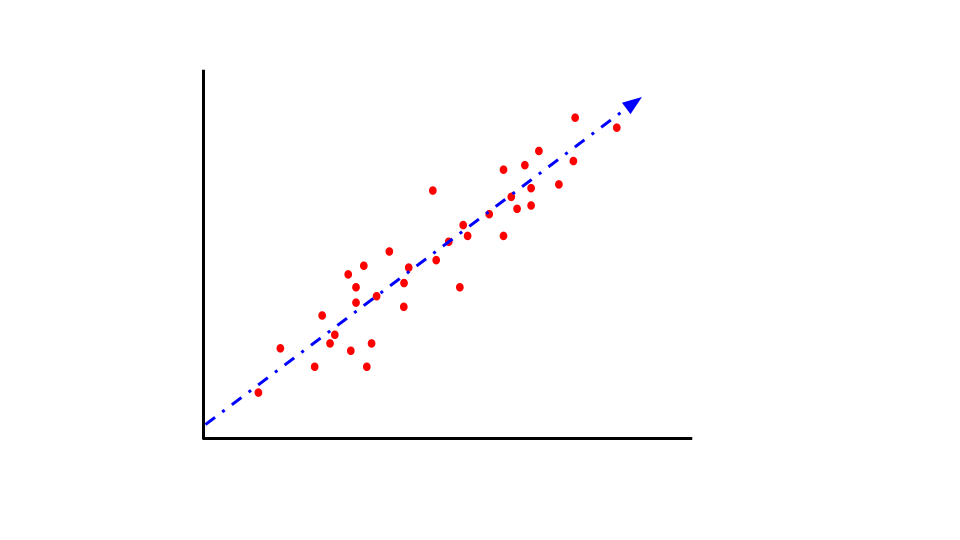
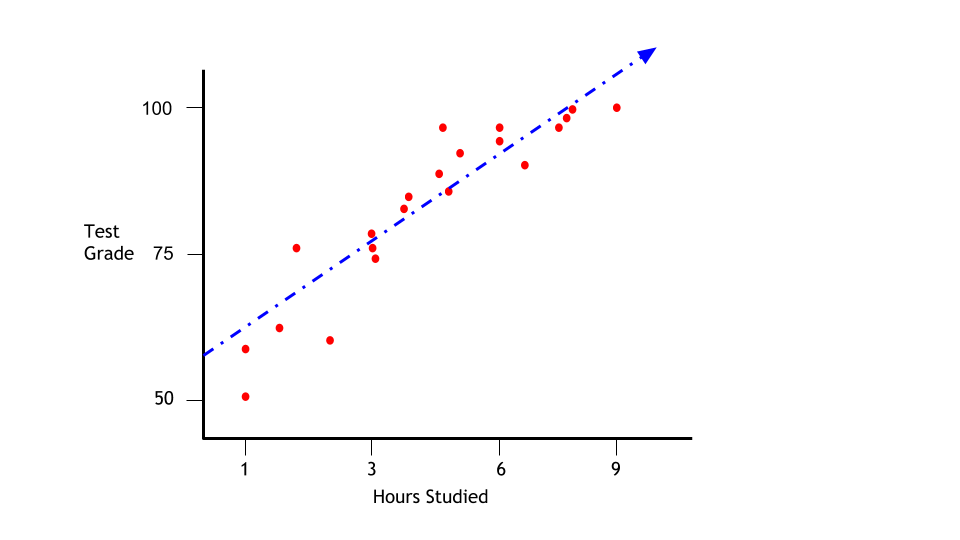
replace image

diff --git a/working_on_posts/intro_supervised.md b/working_on_posts/intro_supervised.md
@@ -33,7 +33,7 @@ Classification problems can be solved with a numerous amount of algorithms. It i
 
 ### Regression
 
-<img src='?raw=true' style='margin: auto; display: block;'>
+<img src='a-i-dan.github.io/images/supervised_learning_post/supervised learning post2.png?raw=true' style='margin: auto; display: block;'>
 
 Regression is a predictive statistical process where the model attempts to find the important relationship between dependent and independent variables.  
 
